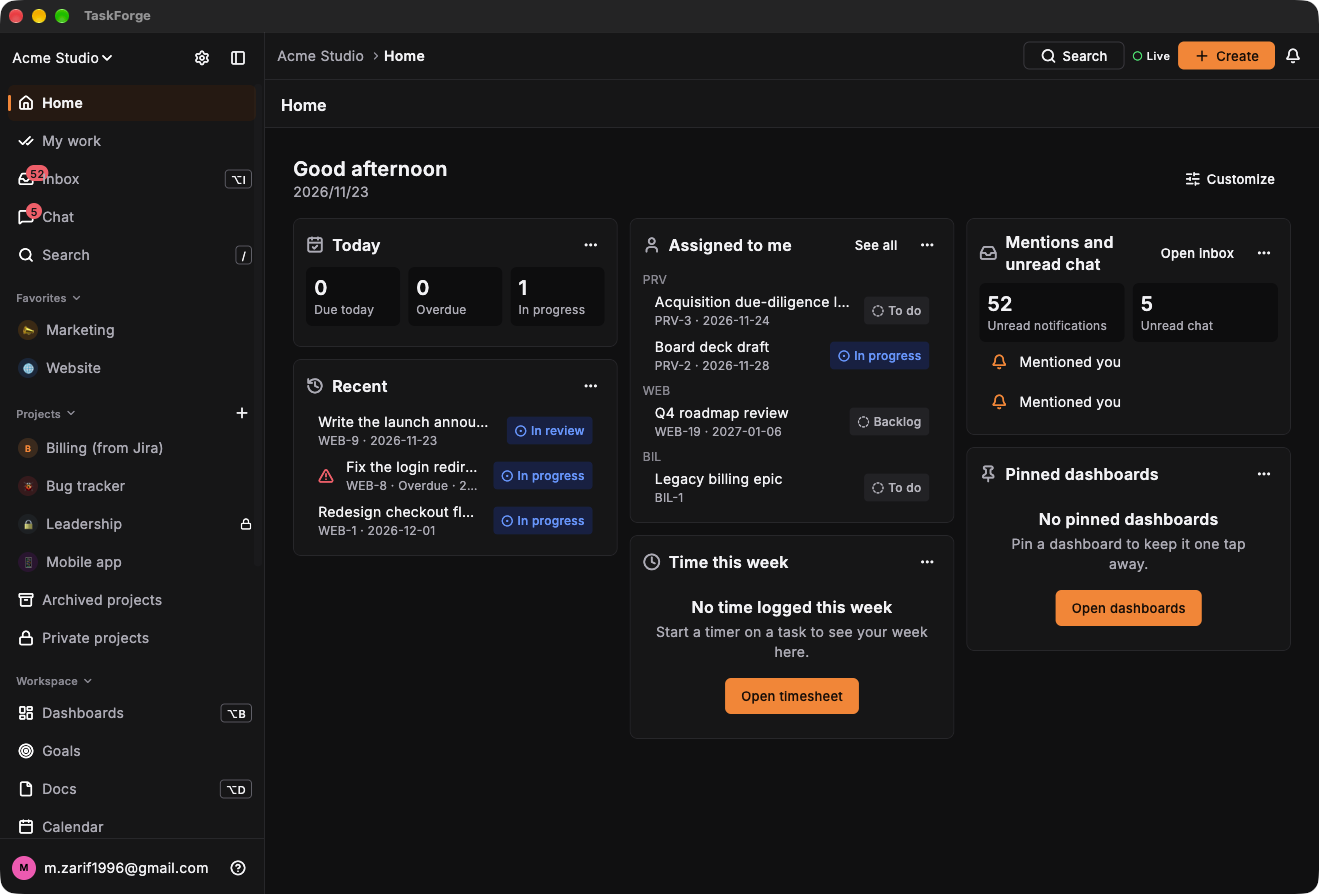
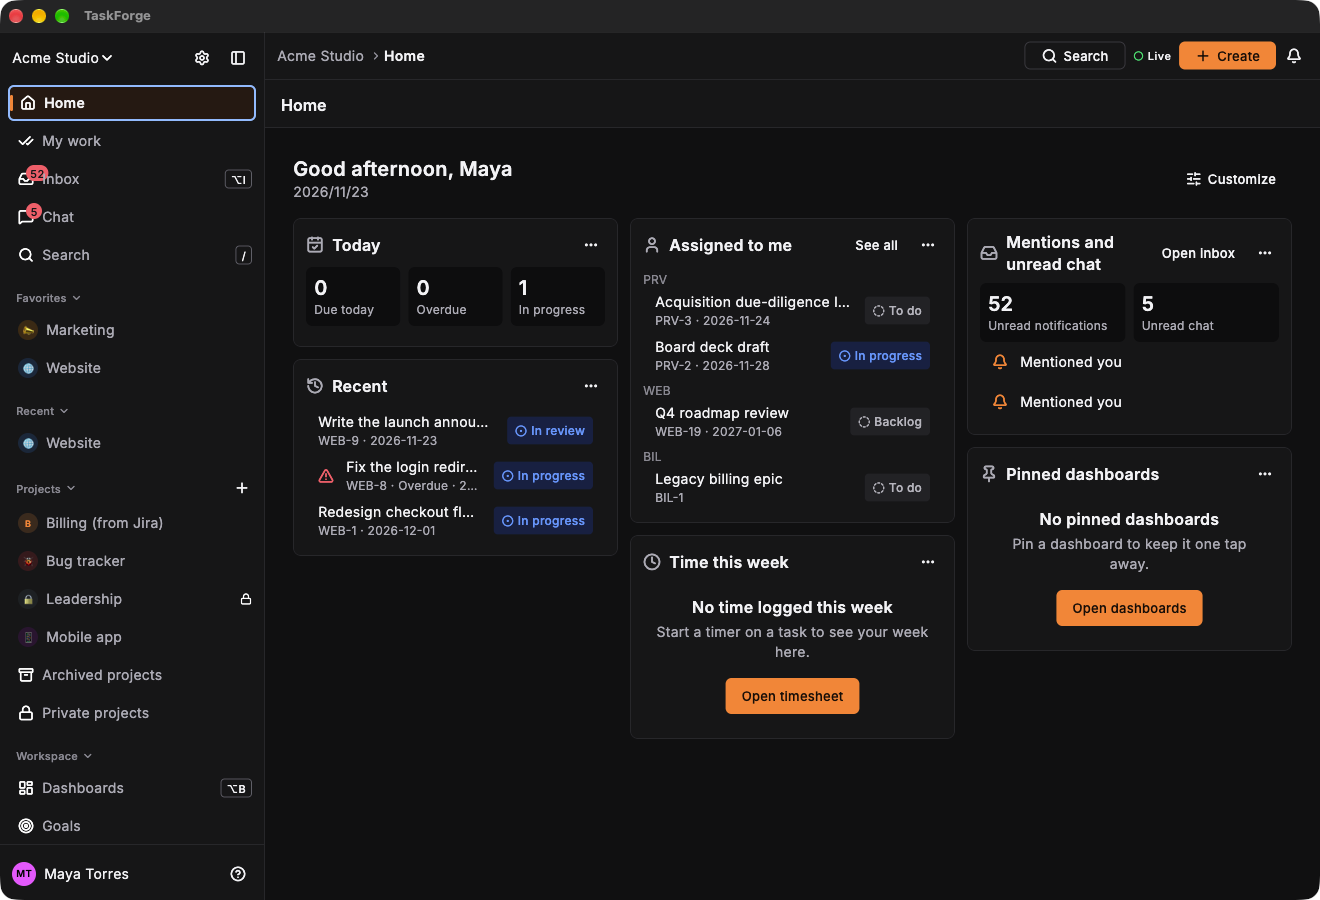
📄 document(screenshots): retake macOS shots with the demo user
The previous macOS capture showed a personal account name. Adds list and
board views; landing page uses the board shot.

diff --git a/landing/index.html b/landing/index.html
@@ -129,7 +129,7 @@
       <figure><img src="img/list-light.png" alt="List view" loading="lazy"><figcaption>List</figcaption></figure>
       <figure><img src="img/task-modal-light.png" alt="Task with comment" loading="lazy"><figcaption>Task and comments</figcaption></figure>
       <figure><img src="img/board-fa-rtl.png" alt="Board in Persian, right to left" loading="lazy"><figcaption>Persian, right to left</figcaption></figure>
-      <figure><img src="img/macos-home.png" alt="Home on macOS" loading="lazy"><figcaption>macOS</figcaption></figure>
+      <figure><img src="img/macos-board.png" alt="Board on macOS" loading="lazy"><figcaption>macOS desktop</figcaption></figure>
     </div>
     <div class="phones">
       <img src="img/ios-home.png" alt="Home on iOS" loading="lazy">

diff --git a/README.md b/README.md
@@ -30,7 +30,9 @@ Captured from the running web app against a seeded demo workspace (`make seed`; 
 
 The desktop app (`make macos`) on the same demo workspace, over native gRPC.
 
-![Home on macOS](docs/screenshots/macos-home.png)
+| Home | List | Board |
+|------|------|-------|
+| ![Home on macOS](docs/screenshots/macos-home.png) | ![List on macOS](docs/screenshots/macos-list.png) | ![Board on macOS](docs/screenshots/macos-board.png) |
 
 ### iOS
 
